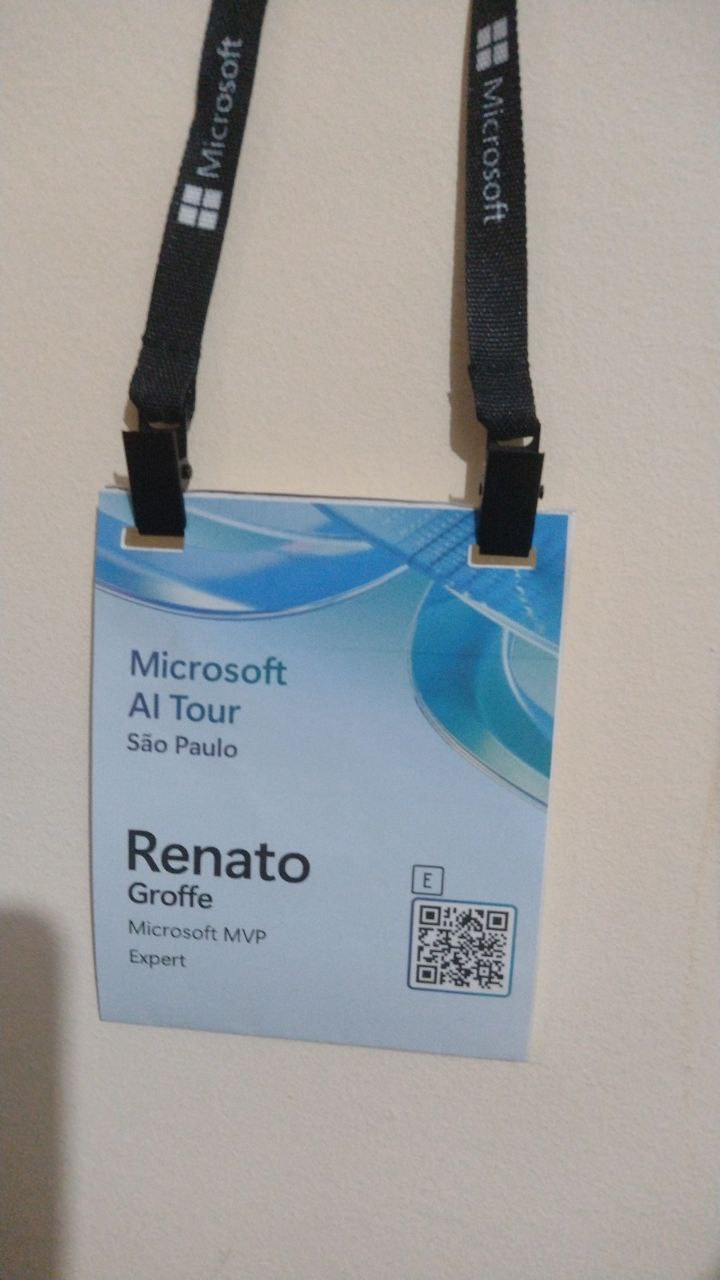
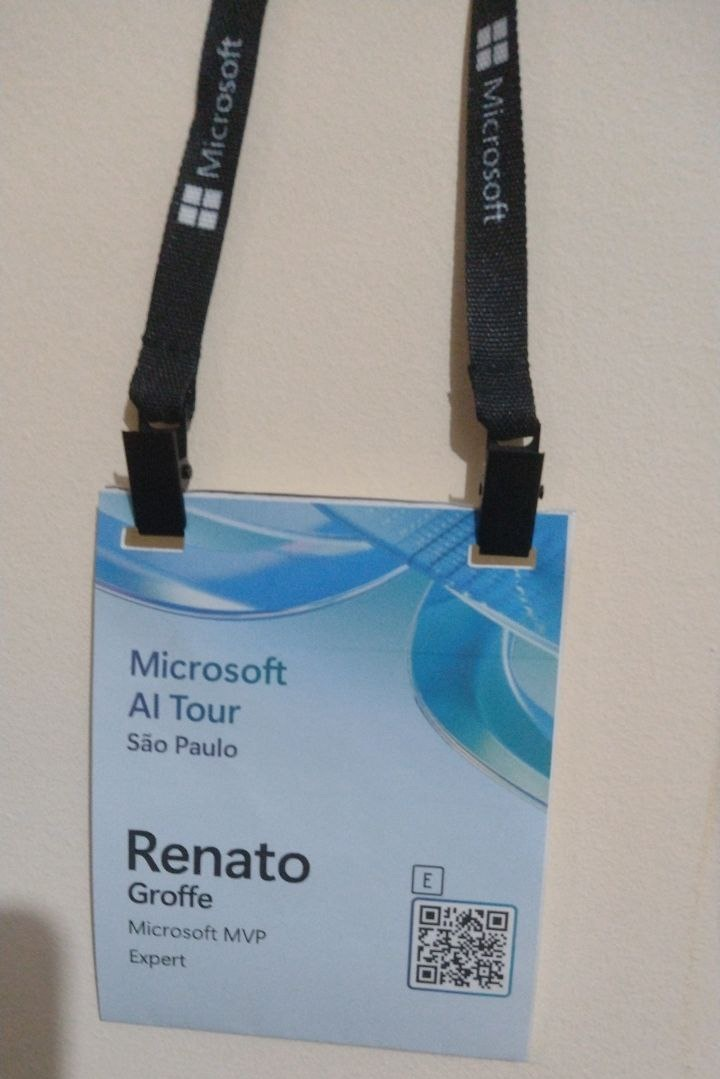
Add event photos to README.md for enhanced visual context

Changed region(s): [[0.0, 0.0306, 0.7944, 1.0], [0.6417, 0.0, 0.7333, 0.2141], [0.9778, 0.9787, 1.0, 1.0]]

diff --git a/README.md b/README.md
@@ -34,3 +34,6 @@ Agradecimentos da Microsoft:
 
 Fotos no evento:
 
+![Renato no Hub 1](img/foundry-iq-05.jpeg)
+
+![Crachá](img/cracha.jpg)
